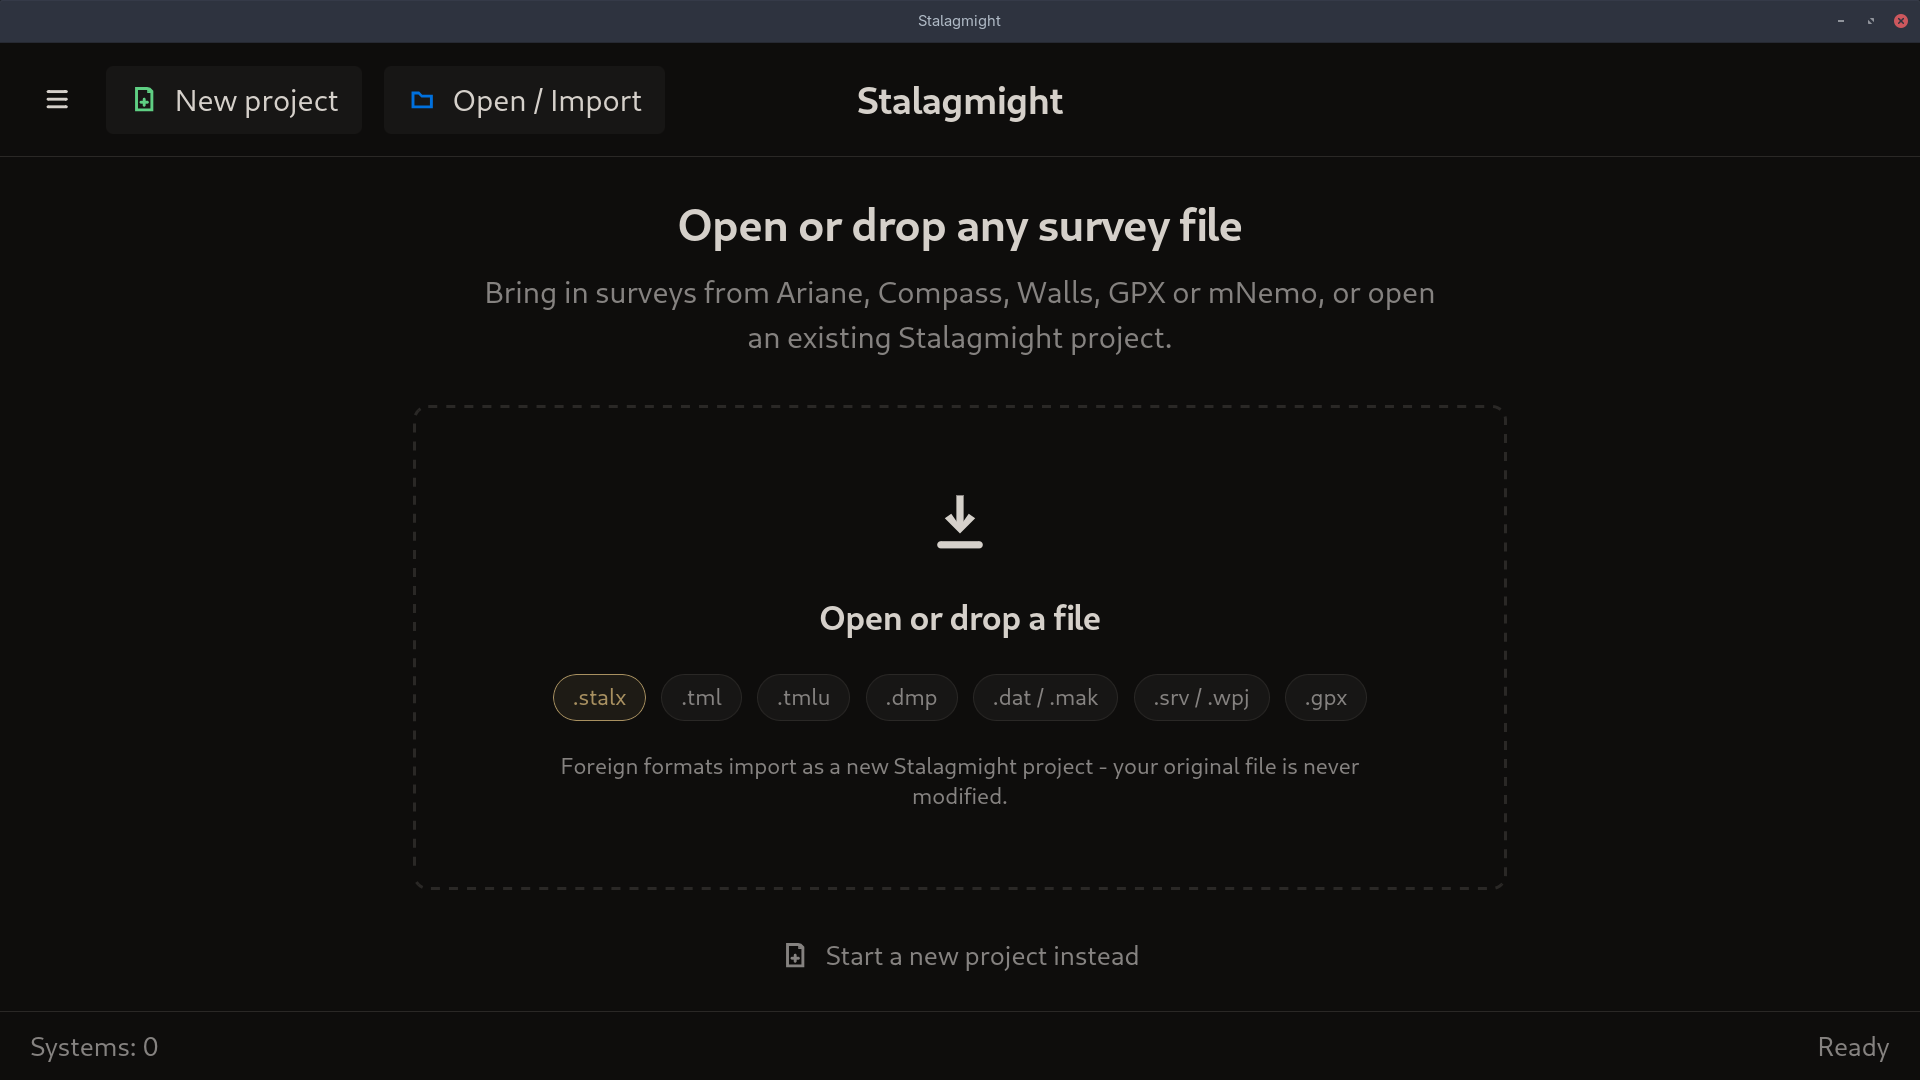
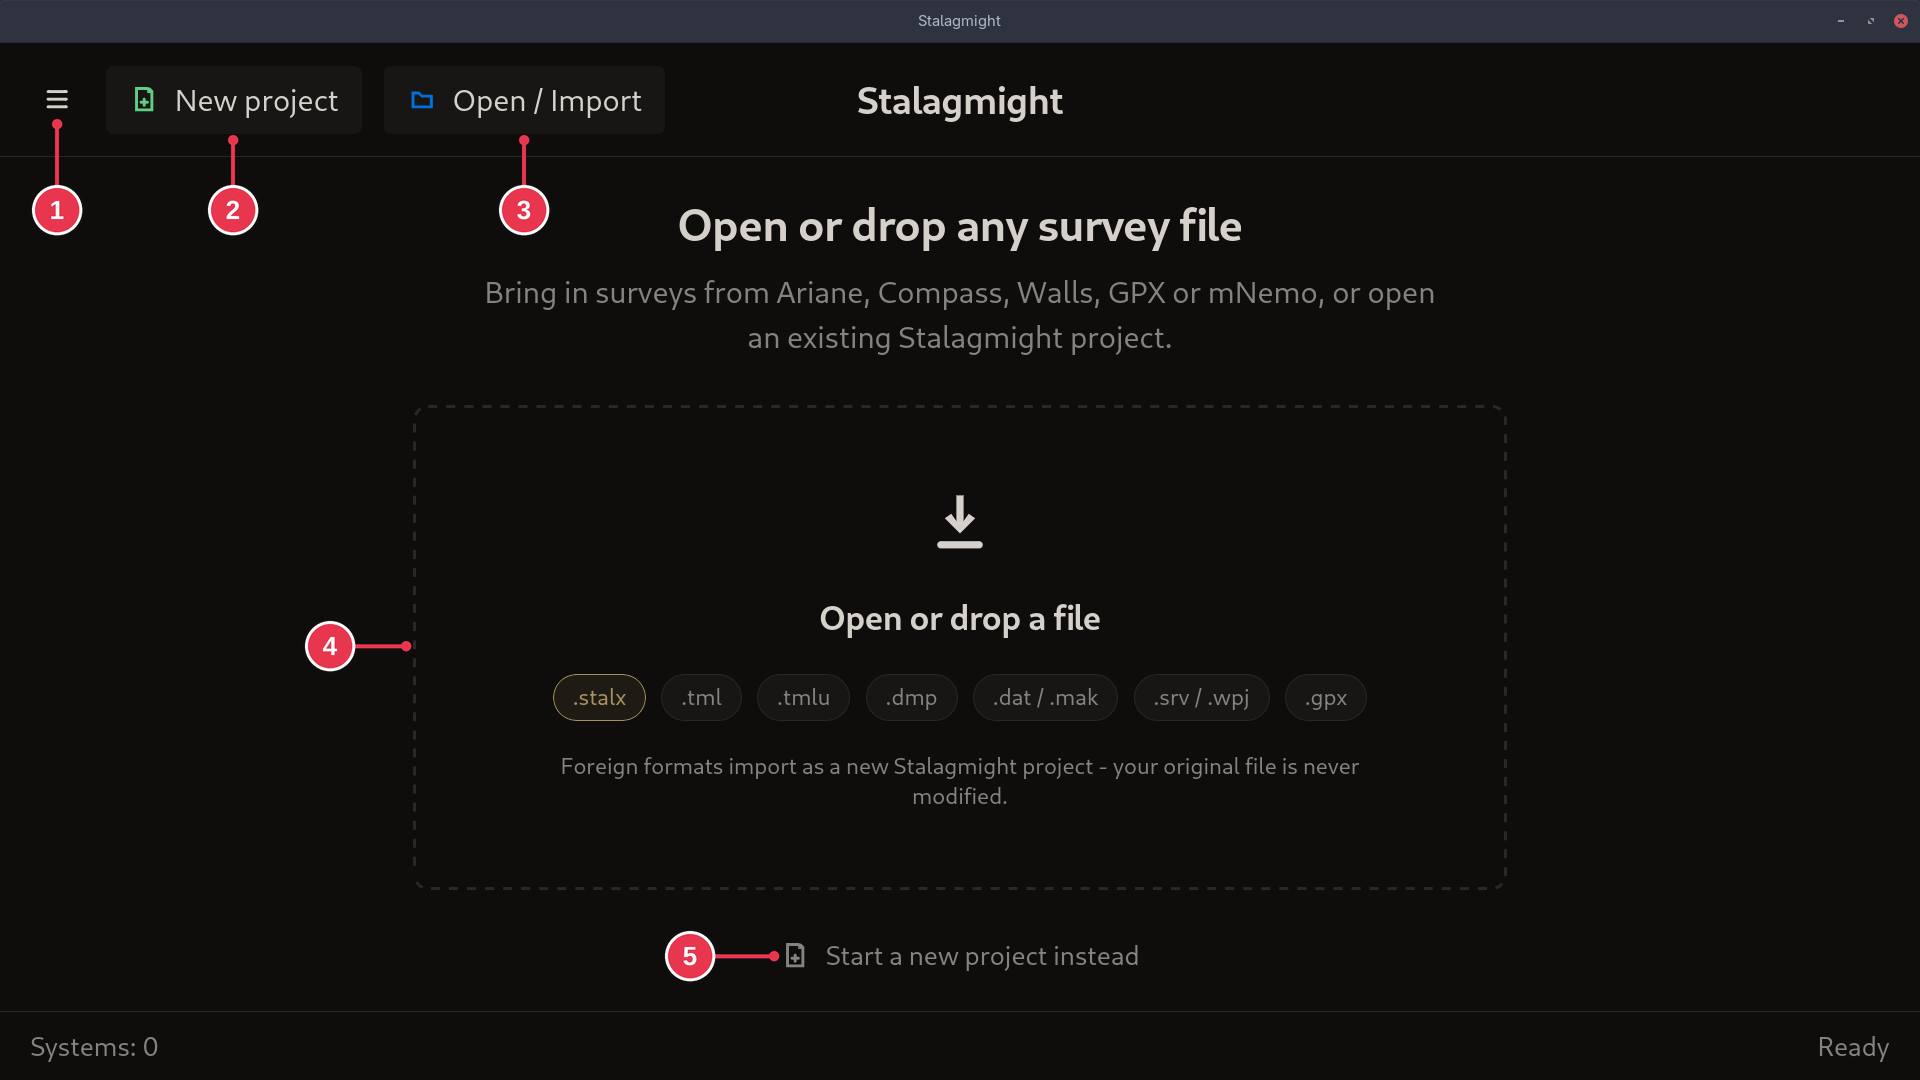
docs(user-guide): numbered callouts and the New Project dialog
Number every interactive element on the screenshots with a callout
beside it and list them in callout order on the screen pages. Add the
New Project dialog page and step 2 of "Creating a new survey",
including when the .stalx file is first written.

diff --git a/docs/user-guide/screens/start-screen.md b/docs/user-guide/screens/start-screen.md
@@ -2,19 +2,21 @@
 
 Shown at launch until you open a project. After that it lists recent projects.
 
-- **New project**: start an empty project. See
-  [Creating a new survey](../workflows/creating-a-new-survey.md).
-- **Open / Import**: open a `.stalx` project or import another format. Clicking
-  the dashed area or dropping a file on the window does the same.
-
 ![Start screen](../images/start-screen.png)
+
+1. **Menu**: New project, Open / Import, Settings, Debug Logs, Quit.
+2. **New project**: opens the [New Project dialog](new-project-dialog.md).
+3. **Open / Import**: open a `.stalx` project or import another format.
+4. **Drop area**: click it to do the same as 3, or drop a file anywhere on the
+   window.
+5. **Start a new project instead**: same as 2.
 
 ## Details
 
 - Formats: `.stalx` (Stalagmight), `.tml` / `.tmlu` (Ariane), `.dmp` (mNemo),
   `.dat` / `.mak` (Compass), `.srv` / `.wpj` (Walls), `.gpx` (GPX).
 - An import creates a new project. The original file is not changed.
-- **Start a new project instead** is the same as **New project**.
 - `Systems: 0` is the number of recent projects.
+- Signed in to SpeleoDB, the menu (1) also has **Open from SpeleoDB**.
 - The very first launch may show an orientation and a usage-statistics question
   on top of this screen.

diff --git a/docs/user-guide/workflows/creating-a-new-survey.md b/docs/user-guide/workflows/creating-a-new-survey.md
@@ -1,6 +1,11 @@
 # Creating a new survey
 
 1. On the [start screen](../screens/start-screen.md), click **New project**.
+2. In the [New Project dialog](../screens/new-project-dialog.md), enter a name
+   and click **Create Project**.
+
+Tick **Save project file immediately** to create the file right away. Otherwise
+it is saved once you add data.
 
 Already have the survey in another program? Use **Open / Import** instead.
 
@@ -9,3 +14,15 @@ Already have the survey in another program? Use **Open / Import** instead.
 ### 1. New project
 
 ![Start screen](../images/start-screen.png)
+
+Click **New project** (2) or **Start a new project instead** (5). A dialog asks
+for the project details.
+
+### 2. Project details
+
+![New Project dialog](../images/new-project-dialog.png)
+
+- **Project Name** (2) is required. **Location** (3) is optional.
+- **Save project file immediately** (4): ticked, the `.stalx` file is created
+  as soon as the project opens. Unticked, it is saved only once you add data.
+- **Create Project** (6) opens the new project.

diff --git a/docs/user-guide/screens/new-project-dialog.md b/docs/user-guide/screens/new-project-dialog.md
@@ -1,0 +1,24 @@
+# New Project dialog
+
+Names a new project. Opened by **New project** on the
+[start screen](start-screen.md).
+
+![New Project dialog](../images/new-project-dialog.png)
+
+1. **Close**: back to the start screen, nothing created.
+2. **Project Name**: required.
+3. **Location**: optional. Where the cave is, for example a park or region.
+4. **Save project file immediately**: creates the `.stalx` file as soon as the
+   project opens. Unticked, the file is only saved once you add data.
+5. **Cancel**: same as 1.
+6. **Create Project**: creates the project and opens it. Disabled until 2 has a
+   name.
+
+## Details
+
+- With 4 ticked, **Create Project** first asks where to save the file.
+  Cancelling that leaves the project unsaved, as if 4 were unticked.
+- With 4 unticked, the file goes to `Documents/stalagmight/<name>.stalx`. If
+  that name is taken, `_1`, `_2`, ... is added.
+- Signed in to SpeleoDB, the dialog also has **Also create on SpeleoDB after
+  creating**.

diff --git a/docs/user-guide/README.md b/docs/user-guide/README.md
@@ -7,6 +7,7 @@ How to use Stalagmight. Pages link to each other.
 
 **Screens**
 - [Start screen](screens/start-screen.md)
+- [New Project dialog](screens/new-project-dialog.md)
 
 ## Contributing
 
@@ -16,3 +17,6 @@ How to use Stalagmight. Pages link to each other.
   folder, listed above.
 - Screenshots: `images/<what-it-shows>.png`, 1920x1080 window, clean profile (no
   recent projects, signed out of SpeleoDB), made-up survey data only.
+- Number every interactive element with a callout placed beside it, never on
+  top of it. Screen pages list the elements in callout order; other pages refer
+  to them as **Name** (n).
